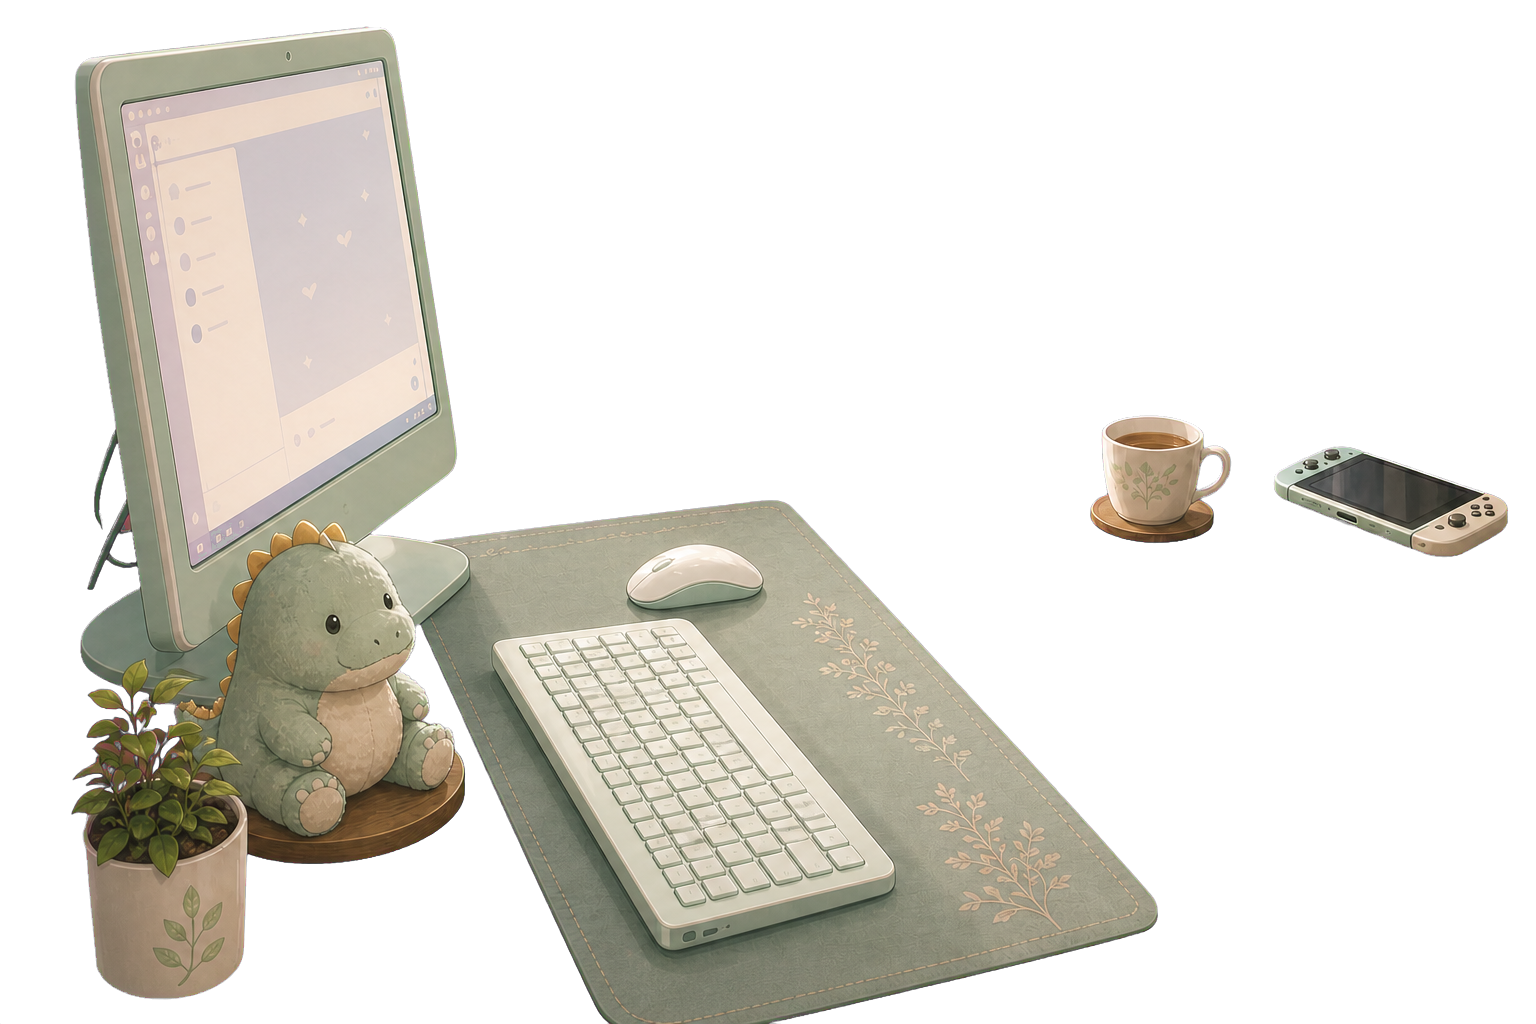
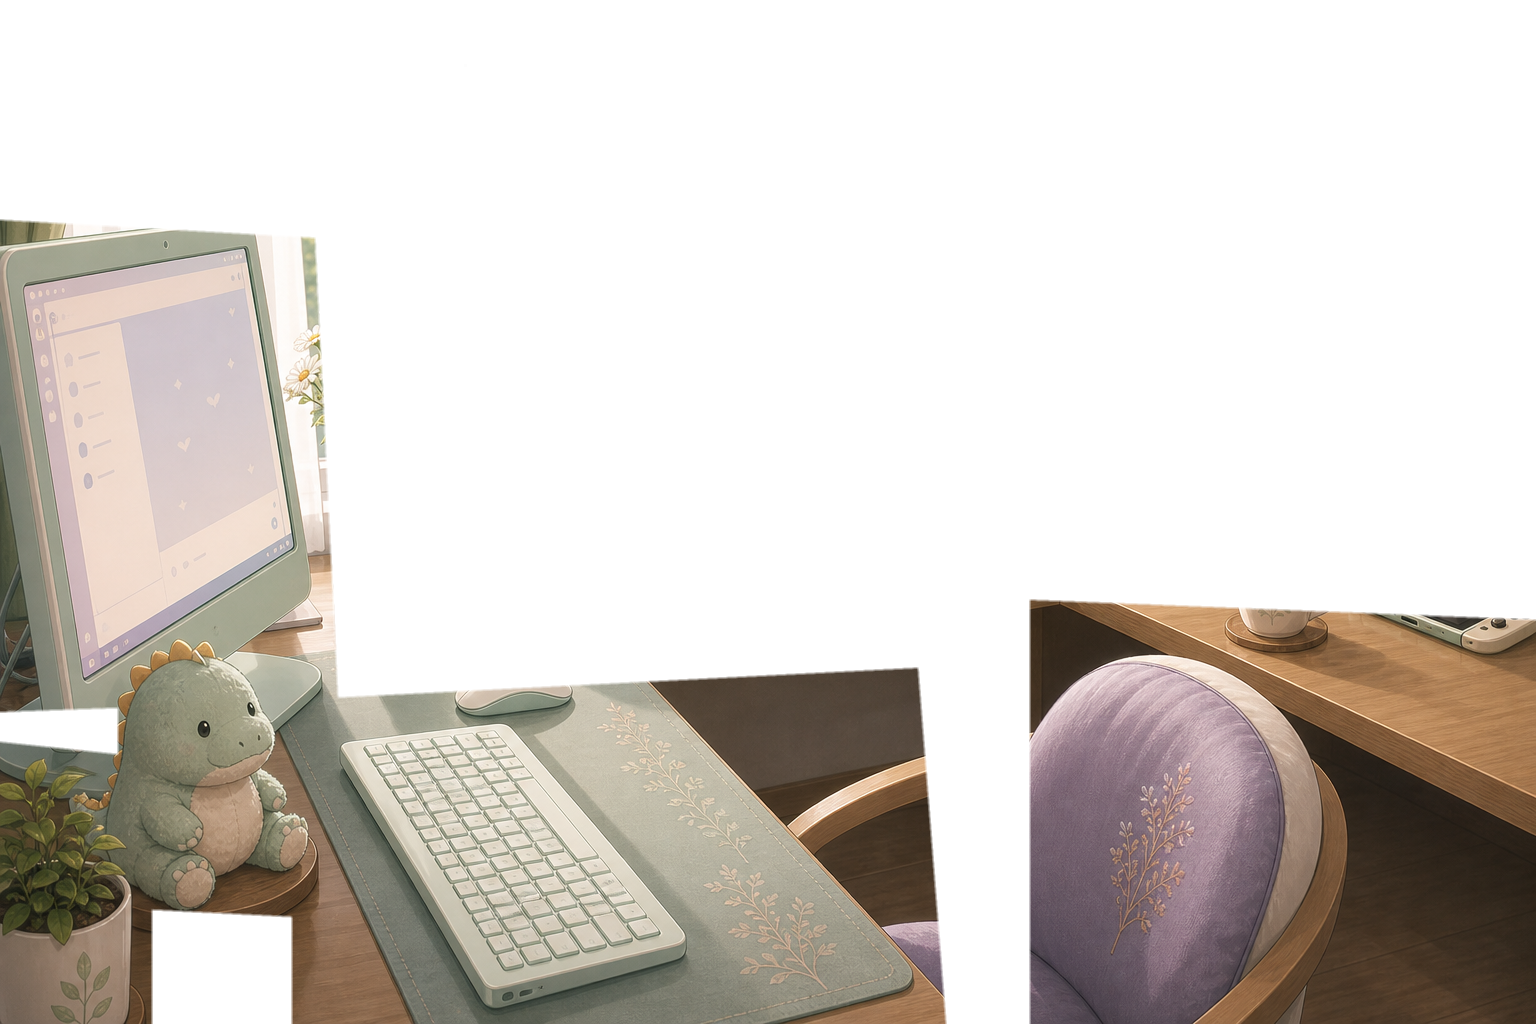
Drop the unaligned layer regenerations, restore the aligned desk layer
Codex also wrote its outputs straight into assets/art/backgrounds/, which
overwrote the carved desk_front with a regenerated one and added chair,
desk_back and room_shell. All four are drawn at a different camera from
the original, so they cannot sit against it — and being unused they would
still have shipped, adding ~6 MB to the web download.

Removed them, regenerated the carved desk_front, and kept the two things
that do work: the keyed room layer (diff 0.017) and the painted outside
views.

Also fixed inspect_layers.gd --compare, which only skipped magenta-keyed
pixels. Layers delivered with a real alpha channel kept arbitrary RGB
where transparent, so every one of them scored as "regenerated". It now
skips transparent pixels too; the verdicts above are from the corrected
measurement.

diff --git a/docs/Yua_World_Components.md b/docs/Yua_World_Components.md
@@ -1,65 +1,76 @@
-# Yua 世界组件（2026-08-13 · 按 owner 反馈重构为「兼职轮换制」）
+# Yua 世界组件（2026-08-13 v3 · 定稿方向）
 
-**Owner 已定：** B1 海边渡轮小镇 ✅ · C1 写小说，方向改为**奇幻/轻小说** ✅ ·
-A 不再单选——**全都要，做成沿剧情解锁的兼职轮换** ✅ · 小卖部删除 ✅ · 书店+图书馆合并 ✅ ·
-D 按 A 的展开顺序后续扩充 ✅
-
-**新结构的含义：** 兼职不再是「她是谁」的单选题，而是**内容日历**。一个主职当锚点，
-其余是客串弧：每解锁一个兼职 = 一个新故事包 + 新人物 + 新杂谈池素材。这正好匹配
-「专注时长解锁剧集」的引擎——后期剧集不再只能变得更亲密，还能变得**更宽**。
-
----
-
-## 主职 · 锚点（常驻，从 Ep1 就在）
-
-### 水族馆礼品店（收银 + 周末讲解）
-- **唯一性：** 人物关系的深耕地——经理 Hina、仇人江豚小七、企鹅群。别的兼职给「事件」，
-  这里给「关系」。也是唯一能承载轻赌注的地方（馆里一年比一年冷清）。
-- **和写作线的暗桥：**「本周观察」白板——她给动物写的小段子，是她文字才能的公开证据。
-- **和海边小镇天然咬合**（B1 已锁）。
-
-## 客串兼职 · 沿剧情解锁（每个 = 一个故事包，功能互不重复)
-
-| 解锁次序 | 兼职 | 唯一的故事功能 | 素材钩子 |
-|---|---|---|---|
-| 早期（Ep6 前后） | **咖啡店救急**（朋友的店，一日限定） | 喜剧单元 + 引入她的同龄朋友（第一个「第三人」） | 拉花失败像小七 · 朋友当面爆她料 · 回来找你汇报灾难 |
-| 中期 | **书屋替班**（旧书店兼镇图书分馆，傍晚闭馆班） | 她和「别人写的书」的关系——写作线的镜子：羡慕、胆怯、夹在旧书里的陌生人书签 | 只买不卖的常客爷爷 · 借阅卡上的重复名字 · 关灯前最后一排书架 |
-| 节令限定 | **花店修罗场**（情人节/母亲节帮工） | 她的文字第一次「被使用」——替陌生人写卡片，写作自信的伏笔事件 | 三十张卡片写到手抽筋 · 有人指定「要让她哭的那种」 |
-| 特展限定 | **天文馆客串讲解**（流星雨季） | 她的文字第一次「被听见」——解说词广播全馆；限时事件集（当晚可一起看流星） | 修不好的流星按钮 · 打瞌睡的大叔 · 她提前一周偷偷背稿 |
-| 后期 | **亲戚民宿帮工**（旺季支援几天） | 一期一会——陌生住客的故事+留言本，后期治愈单元的素材金矿 | 留言本上外语的道谢 · 总住同一间的老夫妇 |
-
-> 解锁节奏挂在现有引擎上即可：`session_gate` + `total_focus_seconds_min`，每个兼职弧
-> 2–3 集。玩家视角=「陪她久了，她的世界越来越大」，这本身就是关系进展的可感形态。
-
-## B · 住处 ✅ 已定：B1 海边渡轮小镇
-浪、汽笛一天四班、海鸟；潮湿、台风天停航。Ep2「你听」名场面用海和轮渡。
-
-## C · 藏起来的一半 ✅ 已定：C1 写小说 → **奇幻/轻小说向**
-- 她写的是一个**架空世界的长篇**（轻小说气质）。中二含量高 = 坦白时的害羞浓度翻倍，
-  也更贴目标玩家的阅读经验。
-- **现实素材偷渡：** 她的奇幻世界偷偷取材自她的真实生活——企鹅→雪原兽群、轮渡→往返
-  两座浮岛的飞空艇、汽笛→龙的晚钟。玩家后期读到只言片语时会认出来：「这不是……你的镇子吗」。
-  这是坦白之后最好的第二层揭示。
-- **游戏借口联动（见开场D）：** 她打游戏的官方说法是「取材」。「奇幻世界观！参考价值！」
-
-## D · 兴趣佐料（按 A 展开顺序陆续加，当前先带三个）
-- **D10 游戏（新，来自开场）：** 一款〔企鹅自走棋〕——版权安全、绑水族馆、表情包潜力。
-  段位保密，输了会小声骂棋子，官方立场「为小说取材」。
-- **D2 便利店新品鉴定学**（咖啡店/民宿弧的杂谈燃料）
-- **D3 收集好听的词**（写作线杂谈燃料）
-- 待展开：天文（天文馆弧）、旧书签收藏（书屋弧）、卡片字体练习（花店弧）——每开一个
-  兼职弧就点亮一个对应佐料，杂谈池跟着长。
-
-## E · 暗线 ✅ 已定：固定配对之谜（三句话版，叠加）
+**Owner 已定（全部 ✅）：**
+- **主职：轻小说/二次元书店 × 咖啡角**（书咖一体）
+- **副业：水族馆**（周末班；小七、企鹅、Hina 这些好素材保留）
+- B1 海边渡轮小镇 · C1 奇幻/轻小说写作 · 兼职轮换制 · 开场 D「开局翻车」（补一句点明 co-work app）
+- EP0 取名 AI 反应确认（真名/网名/整活名三路，见 `Type_Mode_Design.md` §1）
+- ~~E 暗线（固定配对之谜）~~ **删除，不再考虑**
 
 ---
 
-## 当前锁定的完整配方（2026-08-13）
+## 主职 · 「书咖」（占位名：灯塔书咖）— Ep1 起常驻
 
-**B1 海边小镇 + 主职水族馆 + 客串轮换（咖啡→书屋→花店→天文馆→民宿）+
-C1 奇幻轻小说 + D10 游戏/D2 便利店/D3 词语 + E 暗线 + 开场D（游戏翻车，见开场文档）**
+镇上唯一一家轻小说/二次元向书店，兼一个四张桌子的咖啡角。渡轮带来的游客 + 镇上学生
+的据点。她的活：收银、冲咖啡、上架、**手写荐书卡（POP）**。
 
-仍开放的小决定：
-1. 主职水族馆确认吗？（你之前说过「水族馆只是临时」——但在 B1 海边+轮换制下它是最合身的锚点；
-   如果还是想换，书屋也可以当主职，水族馆降为客串。）
-2. 企鹅自走棋这个假游戏的名字（我先占位叫《企鹅要塞》，欢迎起个更贱的）。
+**为什么和她严丝合缝：**
+- **最妙也最扎心的设定：** 她每天把别人写完的小说摆上架、替别人的书写漂亮的推荐语——
+  而她自己偷偷写的那本，还锁在电脑里一个叫「杂物」的文件夹里。离梦想最近的工位，
+  也是每天提醒她「你还没写完」的地方。剧情的火从这点燃。
+- **手写荐书卡**（书架上「店员推荐」的小卡片）**是全店的隐藏招牌**：常客买书只认她写的卡，
+  有一张被人拍照发到网上小火过一次，她至今不知道。→ 她的文字每天公开「被使用」，
+  这吸收了原花店弧的功能，而且是日常级。
+- **咖啡角的拉花她永远练不好**，失败作品总是神似小七（她周末水族馆兼职的死对头江豚，
+  见下节）——仇人跨界追杀到咖啡杯里。
+- **轻赌注**：海边小店生意随渡轮和季节起落，进货单一年比一年薄——轻、真实、不悲情，
+  让她「想把店撑住」的心意有个着落。
+
+**关键人物提案（等你点头）：店长 = 从大城市退休回乡的前轻小说编辑。**
+毒舌、懒散、看人极准。她不知道他的过去（Ep 中后期揭晓）。这给写作线一个终点站：
+**她敢不敢把稿子给店长看？** 整个故事就有了一个可以走向的「那一天」。
+
+**热梗单元集（你点的：勇哥 360°）：** 店长担心生意，真的去连麦了创业直播——
+「来，镜头 360 度转一圈，看看你这是什么商圈」——镜头扫过雨中的小镇街道、四张桌子、
+和背景里疯狂躲镜头的 Yua。判词很毒，店长却很高兴（「上电视了」）。
+> 工程注：做成**可替换的「时事单元」插槽**（JSON 数据驱动），梗过气就换下一个，
+> 游戏别的部分不受影响。
+
+## 副业 · 水族馆（周末班）— 好素材全保留
+
+周末去水族馆帮班（小镇就这么大，人手互借很正常）。保留：仇人江豚**小七**（马克杯）、
+**企鹅二十分钟**、经理 **Hina**、投喂表演翻车。原「本周观察白板」并入书咖荐书卡。
+企鹅自走棋（D10）的棋子人脉也在这边。
+
+## 客串兼职 · 沿剧情解锁（原咖啡店救急弧已并入主职）
+
+| 时机 | 兼职 | 唯一功能 |
+|---|---|---|
+| 节令限定 | 花店修罗场（情人节/母亲节） | 高压场景喜剧；替陌生人写卡的「命题作文」挑战 |
+| 特展限定 | 天文馆客串讲解（流星雨季） | 她的文字第一次**被广播**；当晚一起看流星的限时事件 |
+| 后期 | 亲戚民宿帮工（旺季） | 一期一会：住客故事+留言本，后期治愈单元 |
+
+## B · 住处 ✅ B1 海边渡轮小镇
+浪、汽笛一天四班、海鸟；潮湿、台风停航。Ep2「你听」用海和轮渡。
+
+## C ✅ 奇幻/轻小说写作（与主职强共振）
+她写架空世界长篇，中二含量高。**现实素材偷渡**：企鹅→雪原兽群、轮渡→浮岛飞空艇、
+汽笛→龙的晚钟。后期玩家读到只言片语：「这不是……你的镇子吗」。
+书咖版新增痛点：**她上架的每一本，都是别人写完了的。** 她的还躺在「杂物」文件夹里。
+打游戏官方说法照旧：「取材」。
+
+## D · 佐料（随弧点亮）
+- **D10 企鹅自走棋**（占位《企鹅要塞》）：开场翻车用；段位保密；最强棋子小七
+- **D3 收集好听的词** / **旧书签收藏**（书咖弧核心佐料：夹在二手书里的陌生人痕迹）
+- **D2 便利店新品鉴定学**（民宿/日常杂谈）
+- 待点亮：天文（天文馆弧）、卡片字体练习（花店弧）
+
+---
+
+## 定稿配方（2026-08-13）
+
+**B1 海边小镇 + 主职灯塔书咖（店长=退休编辑?）+ 副业水族馆 + 客串（花店/天文馆/民宿）
++ C1 奇幻轻小说 + D10/D3/D2 + 开场D（点明 co-work app）+ EP0 取名AI反应。暗线已删。**
+
+剩余小决定：① 店长=退休编辑，要吗？ ② 书咖店名（占位「灯塔书咖」）
+③ 假游戏名（占位《企鹅要塞》）

diff --git a/docs/Opening_and_Script_Directions.md b/docs/Opening_and_Script_Directions.md
@@ -2,10 +2,11 @@
 
 打勾方式同上次：每个 ⬜ 处回复编号即可（例：「开场选 B」「剧本走 V1，Ep3 改一改：……」）。
 
-> **状态更新（2026-08-13）：** owner 已定 B1 海边小镇 + C1 奇幻轻小说 + 兼职轮换制
-> （全部 A 项沿剧情解锁，书店图书馆合并，小卖部删除 — 见重写后的 `Yua_World_Components.md`）。
-> 新开场 D「开局翻车」（她被抓到在打游戏）已加入下方，成为游戏内开场新推荐。
-> 剧本方向：V1 骨架 + 兼职轮换供 Ep6+ 内容；V2 的申请季赌注结构暂不采用（世界已定海边）。
+> **状态更新（2026-08-13 晚，定稿方向）：** 开场 D 确认（已按 owner 意见补「点明 co-work app」，
+> 见修订逐拍）。**主职改为书咖**（轻小说书店×咖啡角），水族馆降为副业但好素材全保留；
+> 勇哥 360° 热梗做成可替换的「时事单元」插槽 — 见 `Yua_World_Components.md` v3。
+> EP0 取名 AI 反应确认采用（真名/网名/整活名三路 + 1.5s 超时脚本兜底，`Type_Mode_Design.md` §1）。
+> **V3 暗线删除**（不再考虑）。剧本 = V1 骨架移植到书咖世界，水族馆集改为副业周末集。
 >
 > **状态更新（2026-08-11）：**
 > - 开场：owner 还在想（「let me have more think」）。
@@ -79,18 +80,20 @@
 保留 A 的两个机制（黑屏偷听 + 玩家亲手点击接通），把偷听内容从「写作」换成「游戏」。
 **副作用是结构变好了：写作秘密不再在开场烧掉，完整留给 Ep4–5 慢揭；开场由喜剧扛。**
 
-**逐拍：**
-1. 纯黑。app 字样：`配对中……` → `已匹配`。没有音乐。先听到：鼠标连点声，
-   小声的「上啊——不是打那个——哎哎哎——」，然后一声（动画风格的）败北音效。
-2. 「…………再来一把。就一把。刚才那把不算。」
-   （鼠标声重新响起。屏幕浮出按钮：**`对方音频已开启 · 点击接通视频`——玩家自己点。**）
+**逐拍（2026-08-13 修订：开头就点明这是自习/co-work app）：**
+1. 纯黑。**app 自报家门的字样**：`Project Chill · 找一位同桌一起专注` → `正在为你配对同桌……`
+   → `已匹配 · Yua（也是第一次使用）`。没有音乐。
+2. 然后先听到：鼠标连点声，小声的「上啊——不是打那个——哎哎哎——」，一声动画风败北音效。
+   「…………再来一把。就一把。刚才那把不算。」
+   （鼠标声重新响起。屏幕浮出按钮：**`同桌音频已开启 · 点击接通`——玩家自己点。**）
 3. 画面亮起：她以肉眼可见的速度 alt-tab，关窗音效，瞬间坐得笔直。桌上还立着一罐能量饮料。
    「——你好！我叫 Yua！我在学习！」
 4. （两秒沉默。她自己绷不住了）「……好吧。刚才在打游戏。」
-   「本来想着，今天开始用这个 app 好好专注——结果等配对的时候，发现没人看着我，就……
-   就变成刚才那样了。」
-5. 「所以说，这个 app 就是干这个用的嘛。有人在，就打不下去了。……理论上。」
-   （清嗓子）「重来。你好，我叫 Yua。今天开始请多关照。」→ 取名 / 试话筒 / 计时器邀请。
+   「本来想着——都下了这个一起专注的 app 了，今天肯定能好好干活。结果光是等配对的
+   这几分钟，没人看着我，就……就变成刚才那样了。」
+5. 「所以你看，这软件为什么要配一个同桌——就是防我这种的。有人在，就打不下去了。
+   ……理论上。」（清嗓子）「重来。你好，我叫 Yua。你的同桌。今天开始请多关照。」
+   → 取名（AI 反应）/ 试话筒 / 计时器邀请。
 6. BGM 仍然到「我这边放点东西，你介意吗？」才淡入。
 
 **她玩的游戏：**〔企鹅自走棋〕（占位名《企鹅要塞》）——版权安全的架空游戏，绑定水族馆

diff --git a/Progress.md b/Progress.md
@@ -60,14 +60,15 @@ look (call-frame composition), script depth, Windows export, and packaging/marke
 
 ## Active Tasks
 
-- **[OWNER — 3 small decides left]** (phone artifact updated with them): ① confirm opening D
-  「开局翻车」(owner's own idea 8/13 — caught gaming when player connects; A's eavesdrop beat moves
-  to Ep4, B = promo footage, C = easter egg) ② confirm aquarium as anchor 主职 (or swap 书屋 up)
-  ③ name the fake penguin auto-battler (placeholder《企鹅要塞》). ALREADY DECIDED 8/13: B1 seaside,
-  C1 fantasy/轻小说, 兼职轮换制 (all jobs as unlockable guest arcs; bookstore+library merged;
-  小卖部 deleted) — see rewritten `Yua_World_Components.md`.
-- **[CLAUDE — after the 3 picks]** Write final Ep0–5 into `scripted_nodes.json` (v10): seaside +
-  aquarium anchor + fantasy novel + 兼职轮换 hooks + 暗线 + opening D. Then 杂谈池 pools.
+- **DIRECTION FINAL (8/13 evening).** 主职 = 书咖 (轻小说书店×咖啡角, placeholder 灯塔书咖);
+  副业 = 水族馆 (小七/企鹅/Hina kept); B1 seaside; C1 fantasy/轻小说; opening D confirmed with
+  explicit co-work-app framing; EP0 name-AI-reaction confirmed; 勇哥360° meme as a swappable
+  时事单元 slot; **暗线 DELETED**. See `Yua_World_Components.md` v3 + revised opening D beats.
+- **[OWNER — naming only]** ① 店长=退休轻小说编辑 yes/no ② 书咖 name ③ fake game name.
+  Placeholders are usable; not blocking.
+- **[CLAUDE — next big task, unblocked]** Write final Ep0–5 into `scripted_nodes.json` (v10):
+  书咖 world + opening D + name-AI-reaction + V1 skeleton transplanted (aquarium eps → 副业
+  weekend eps). Then 杂谈池 pools.
 - **[CLAUDE — next session]** Implement dialogue UI 方案 A in `main_scene.tscn` + controllers.
 - **[CLAUDE — next session]** Type Mode implementation (`docs/Type_Mode_Design.md` §4) + persona
   fixes found in AI sampling (stage-direction leak, romance over-escalation).
